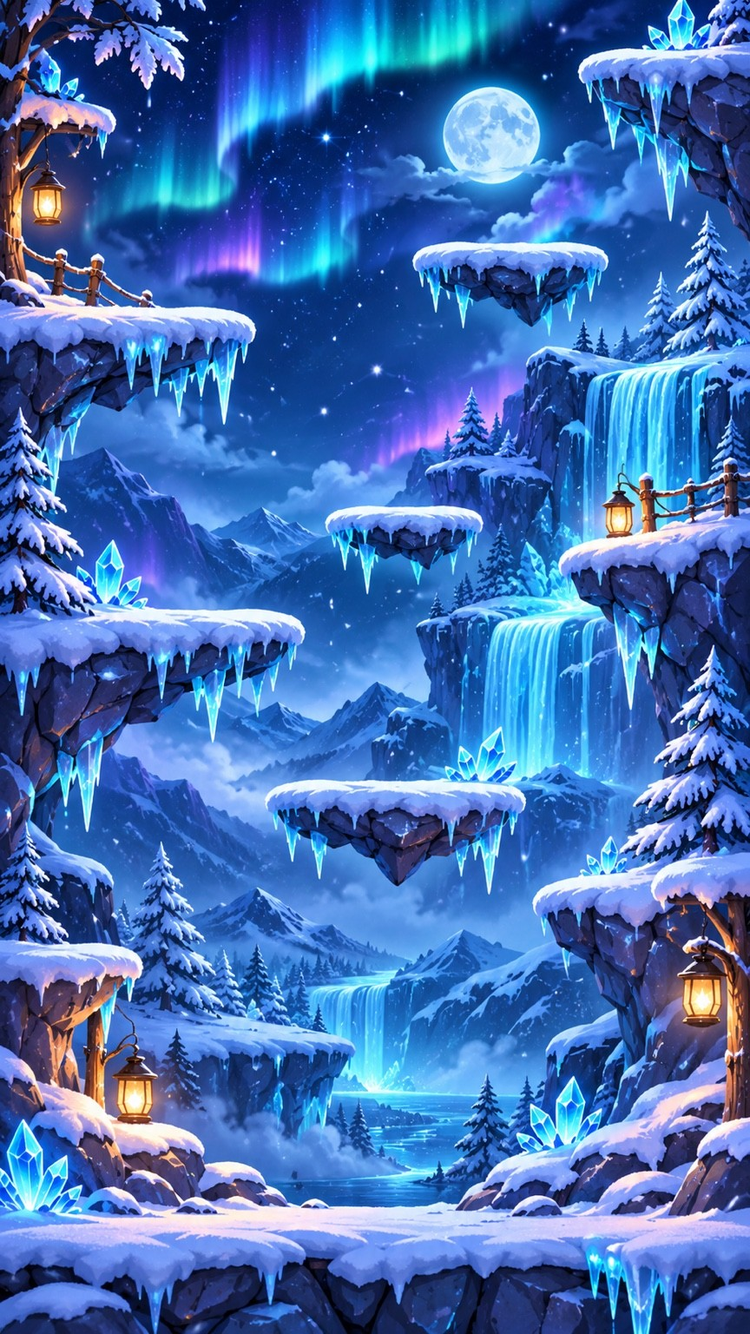
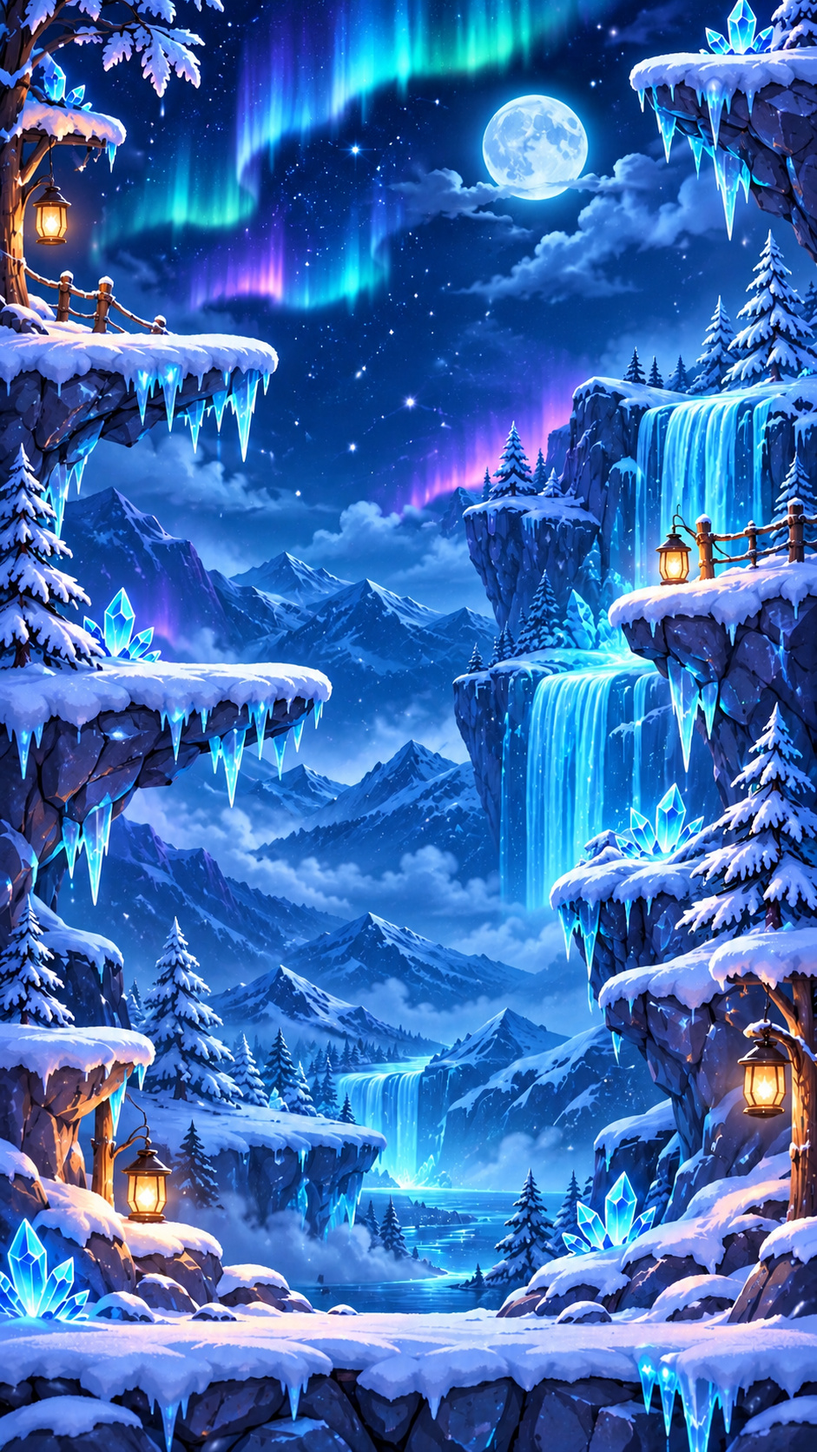
Fix v1.7 transparent platforms and clean winter scenery (#1)

diff --git a/FROSTY_v1_7_index.html b/FROSTY_v1_7_index.html
@@ -1,5 +1,5 @@
-<!doctype html><html lang="de"><head><meta charset="utf-8"><meta name="viewport" content="width=device-width,initial-scale=1,maximum-scale=1,user-scalable=no"><meta name="theme-color" content="#07182f"><title>FROSTY · Endless Ice Jump v1.7</title><style>*{box-sizing:border-box}html,body{margin:0;width:100%;height:100%;overflow:hidden;background:#061329;color:white;font-family:system-ui,-apple-system,sans-serif;touch-action:none}canvas{display:block;width:100vw;height:100dvh}#ui{position:fixed;inset:0;pointer-events:none}.panel{pointer-events:auto;position:absolute;inset:0;background:linear-gradient(180deg,#041126c9,#06172de8 75%),url('assets/winter_depth.jpg?v=17') center center/cover;display:flex;flex-direction:column;align-items:center;justify-content:center;gap:15px;padding:20px;text-align:center}.hidden{display:none!important}h1{font-size:clamp(38px,10vw,66px);margin:0;color:#dcfaff;text-shadow:0 0 22px #42d7ff}h2{margin:0}p{margin:0;color:#c9e6f6}.choice{display:flex;gap:12px;width:min(94vw,420px)}.hero{flex:1;border:2px solid #376787;border-radius:18px;padding:12px 4px;background:#0a2445;color:white;font-weight:700;font-size:17px;cursor:pointer}.hero img{height:160px;max-width:95%;object-fit:contain;display:block;margin:auto;filter:drop-shadow(0 0 4px #39dcff88)}.hero.active{border-color:#6cecff;box-shadow:0 0 18px #19c7fa77}button{font:inherit;cursor:pointer} .btn{border:1px solid #7bdfff;background:linear-gradient(#1878a7,#0b345e);color:white;padding:12px 25px;border-radius:16px;min-width:185px;font-weight:800;box-shadow:0 0 15px #18b8e477}.setting{display:flex;align-items:center;justify-content:space-between;width:min(90vw,390px);padding:12px;border-bottom:1px solid #47738b}select{background:#113a61;color:white;border:1px solid #7bdfff;border-radius:9px;padding:9px}#hud{gap:8px}#hud span{white-space:nowrap}#muteHud{pointer-events:auto;min-width:42px;border:1px solid #8eeaff;background:#103657cc;border-radius:12px;color:white;font-size:20px;padding:9px}#hud{position:absolute;top:env(safe-area-inset-top,12px);left:12px;right:12px;display:flex;justify-content:space-between;align-items:center;pointer-events:none;font-weight:800;text-shadow:0 2px 8px #000;font-size:17px}#pause{pointer-events:auto;border:1px solid #8eeaff;background:#103657cc;border-radius:12px;color:white;font-size:22px;padding:9px 14px}#controls{position:absolute;bottom:max(30px,env(safe-area-inset-bottom));left:0;right:0;display:flex;justify-content:space-between;padding:0 18px;pointer-events:none}.control{pointer-events:auto;border:2px solid #84e8ff;background:#10436b99;color:white;width:75px;height:75px;border-radius:50%;font-size:35px;font-weight:900;user-select:none;touch-action:none}.control:active{background:#1d8fb0}#rightgroup{display:flex;gap:10px}#jump{font-size:23px}small{color:#a7d6ec}</style></head><body><canvas id="game"></canvas><div id="ui"><div id="hud" class="hidden"><span id="height">❄ 0 m</span><span id="coins">🪙 0</span><button id="muteHud" aria-label="Ton stummschalten">🔊</button><button id="pause">Ⅱ</button></div><div id="controls" class="hidden"><div style="display:flex;gap:12px"><button class="control" id="left">❮</button><button class="control" id="right">❯</button></div><div id="rightgroup"><button class="control" id="jump">⇧</button></div></div><div id="menu" class="panel"><h1>FROSTY</h1><p>ENDLESS ICE JUMP · v1.7 · CHARAKTER-EDITION</p><h2>Wähle deinen Charakter</h2><div class="choice"><button class="hero active" data-char="frosty"><img src="assets/frosty_front.png?v=17">❄ FROSTY</button><button class="hero" data-char="lunar"><img src="assets/lunar_front.png?v=17">✦ LUNAR</button></div><button class="btn" id="play">▶ SPIELEN</button><button class="btn" id="settingsBtn">⚙ EINSTELLUNGEN</button><button class="btn" id="muteMenu">🔊 TON AN</button><small>Nordlichter · Eisklippen · magische Winterwelt</small><small>👆 Standard: Finger auf dem Spielfeld nach links/rechts ziehen</small><small>❄ Frosty & Lunar · Sprunganimationen links/rechts</small></div><div id="settings" class="panel hidden"><h2>⚙ Einstellungen</h2><div class="setting">Steuerung <select id="steer"><option value="swipe">Wischen / Sliden</option><option value="touch">Pfeiltasten</option><option value="tilt">Neigen</option></select></div><div class="setting">Ton <button class="btn" id="muteSettings" style="min-width:125px;padding:9px">🔊 AN</button></div><div class="setting">🎵 Musik <input aria-label="Musiklautstärke" type="range" id="musicVol" min="0" max="100" value="25" style="width:145px;accent-color:#8deeff"></div><div class="setting">❄ Effekte <input aria-label="Effektlautstärke" type="range" id="sfxVol" min="0" max="100" value="35" style="width:145px;accent-color:#8deeff"></div><div class="setting">Springen <select id="mode"><option value="auto">Automatisch</option><option value="manual">Manuell</option></select></div><button class="btn" id="calibrate">Neigung kalibrieren</button><button class="btn" id="back">Zurück</button><small>Wischen: Finger auf dem Spielfeld nach links/rechts ziehen. Die Pfeile werden dabei ausgeblendet.</small></div><div id="paused" class="panel hidden"><h2>❄ Pause</h2><button class="btn" id="resume">Weiter</button><button class="btn" id="mutePaused">🔊 TON AN</button><button class="btn" id="restart">Neustart</button><button class="btn" id="toMenu">Hauptmenü</button></div><div id="over" class="panel hidden"><h1>GAME OVER</h1><p id="result"></p><button class="btn" id="again">Nochmal spielen</button><button class="btn" id="home">Charakter wählen</button></div></div><script>
-(()=>{'use strict';const $=id=>document.getElementById(id),cv=$('game'),ctx=cv.getContext('2d');let W=390,H=800,dpr=1,scene='menu',chosen='frosty',score=0,collected=0,best=0,camera=0,highest=0,platforms=[],tokens=[],particles=[],snow=[],last=0,lastPlatformX=195,tilt=0,tiltZero=0,keys={left:false,right:false},jumpPressed=false;const images={};for(const n of ['frosty_front','frosty_back','frosty_side','frosty_jump','lunar_front','lunar_back','lunar_side','lunar_run','lunar_jump','lunar_double','lunar_land']){const im=new Image;im.src='assets/'+n+'.png?v=17';images[n]=im}try{best=Number(localStorage.getItem('frostyBest')||0)}catch(e){}let muted=false,audioCtx=null,master=null,lastLandingSound=0;let musicVol=.25,sfxVol=.35,musicNext=0,musicIndex=0;
+<!doctype html><html lang="de"><head><meta charset="utf-8"><meta name="viewport" content="width=device-width,initial-scale=1,maximum-scale=1,user-scalable=no"><meta name="theme-color" content="#07182f"><title>FROSTY · Endless Ice Jump v1.7</title><style>*{box-sizing:border-box}html,body{margin:0;width:100%;height:100%;overflow:hidden;background:#061329;color:white;font-family:system-ui,-apple-system,sans-serif;touch-action:none}canvas{display:block;width:100vw;height:100dvh}#ui{position:fixed;inset:0;pointer-events:none}.panel{pointer-events:auto;position:absolute;inset:0;background:linear-gradient(180deg,#041126c9,#06172de8 75%),url('assets/winter_depth.jpg?v=1.7') center center/cover;display:flex;flex-direction:column;align-items:center;justify-content:safe center;gap:clamp(8px,1.5dvh,15px);padding:20px;text-align:center;overflow-y:auto;touch-action:pan-y}.hidden{display:none!important}h1{font-size:clamp(38px,10vw,66px);margin:0;color:#dcfaff;text-shadow:0 0 22px #42d7ff}h2{margin:0}p{margin:0;color:#c9e6f6}.choice{display:flex;gap:12px;width:min(100%,420px)}.hero{flex:1;border:2px solid #376787;border-radius:18px;padding:12px 4px;background:#0a2445;color:white;font-weight:700;font-size:17px;cursor:pointer}.panel>*{flex-shrink:0}.hero img{height:clamp(90px,18dvh,160px);max-width:95%;object-fit:contain;display:block;margin:auto;filter:drop-shadow(0 0 4px #39dcff88)}.hero.active{border-color:#6cecff;box-shadow:0 0 18px #19c7fa77}button{font:inherit;cursor:pointer} .btn{border:1px solid #7bdfff;background:linear-gradient(#1878a7,#0b345e);color:white;padding:12px 25px;border-radius:16px;min-width:185px;font-weight:800;box-shadow:0 0 15px #18b8e477}.setting{display:flex;align-items:center;justify-content:space-between;width:min(90vw,390px);padding:12px;border-bottom:1px solid #47738b}select{background:#113a61;color:white;border:1px solid #7bdfff;border-radius:9px;padding:9px}#hud{gap:8px}#hud span{white-space:nowrap}#muteHud{pointer-events:auto;min-width:42px;border:1px solid #8eeaff;background:#103657cc;border-radius:12px;color:white;font-size:20px;padding:9px}#hud{position:absolute;top:max(12px,env(safe-area-inset-top));left:12px;right:12px;display:flex;justify-content:space-between;align-items:center;pointer-events:none;font-weight:800;text-shadow:0 2px 8px #000;font-size:17px}#pause{pointer-events:auto;border:1px solid #8eeaff;background:#103657cc;border-radius:12px;color:white;font-size:22px;padding:9px 14px}#controls{position:absolute;bottom:max(30px,env(safe-area-inset-bottom));left:0;right:0;display:flex;justify-content:space-between;padding:0 18px;pointer-events:none}.control{pointer-events:auto;border:2px solid #84e8ff;background:#10436b99;color:white;width:75px;height:75px;border-radius:50%;font-size:35px;font-weight:900;user-select:none;touch-action:none}.control:active{background:#1d8fb0}#rightgroup{display:flex;gap:10px}#jump{font-size:23px}small{color:#a7d6ec}</style></head><body><canvas id="game"></canvas><div id="ui"><div id="hud" class="hidden"><span id="height">❄ 0 m</span><span id="coins">🪙 0</span><button id="muteHud" aria-label="Ton stummschalten">🔊</button><button id="pause">Ⅱ</button></div><div id="controls" class="hidden"><div style="display:flex;gap:12px"><button class="control" id="left">❮</button><button class="control" id="right">❯</button></div><div id="rightgroup"><button class="control" id="jump">⇧</button></div></div><div id="menu" class="panel"><h1>FROSTY</h1><p>ENDLESS ICE JUMP · v1.7 · CHARAKTER-EDITION</p><h2>Wähle deinen Charakter</h2><div class="choice"><button class="hero active" data-char="frosty"><img src="assets/frosty_front.png?v=1.7">❄ FROSTY</button><button class="hero" data-char="lunar"><img src="assets/lunar_front.png?v=1.7">✦ LUNAR</button></div><button class="btn" id="play">▶ SPIELEN</button><button class="btn" id="settingsBtn">⚙ EINSTELLUNGEN</button><button class="btn" id="muteMenu">🔊 TON AN</button><small>Nordlichter · Eisklippen · magische Winterwelt</small><small>👆 Standard: Finger auf dem Spielfeld nach links/rechts ziehen</small><small>❄ Frosty & Lunar · Sprunganimationen links/rechts</small></div><div id="settings" class="panel hidden"><h2>⚙ Einstellungen</h2><div class="setting">Steuerung <select id="steer"><option value="swipe">Wischen / Sliden</option><option value="touch">Pfeiltasten</option><option value="tilt">Neigen</option></select></div><div class="setting">Ton <button class="btn" id="muteSettings" style="min-width:125px;padding:9px">🔊 AN</button></div><div class="setting">🎵 Musik <input aria-label="Musiklautstärke" type="range" id="musicVol" min="0" max="100" value="25" style="width:145px;accent-color:#8deeff"></div><div class="setting">❄ Effekte <input aria-label="Effektlautstärke" type="range" id="sfxVol" min="0" max="100" value="35" style="width:145px;accent-color:#8deeff"></div><div class="setting">Springen <select id="mode"><option value="auto">Automatisch</option><option value="manual">Manuell</option></select></div><button class="btn" id="calibrate">Neigung kalibrieren</button><button class="btn" id="back">Zurück</button><small>Wischen: Finger auf dem Spielfeld nach links/rechts ziehen. Die Pfeile werden dabei ausgeblendet.</small></div><div id="paused" class="panel hidden"><h2>❄ Pause</h2><button class="btn" id="resume">Weiter</button><button class="btn" id="mutePaused">🔊 TON AN</button><button class="btn" id="restart">Neustart</button><button class="btn" id="toMenu">Hauptmenü</button></div><div id="over" class="panel hidden"><h1>GAME OVER</h1><p id="result"></p><button class="btn" id="again">Nochmal spielen</button><button class="btn" id="home">Charakter wählen</button></div></div><script>
+(()=>{'use strict';const $=id=>document.getElementById(id),cv=$('game'),ctx=cv.getContext('2d');let W=390,H=800,dpr=1,scene='menu',chosen='frosty',score=0,collected=0,best=0,camera=0,highest=0,platforms=[],tokens=[],particles=[],snow=[],last=0,lastPlatformX=195,tilt=0,tiltZero=0,keys={left:false,right:false},jumpPressed=false;const images={};for(const n of ['frosty_front','frosty_back','frosty_side','frosty_jump','lunar_front','lunar_back','lunar_side','lunar_run','lunar_jump','lunar_double','lunar_land']){const im=new Image;im.src='assets/'+n+'.png?v=1.7';images[n]=im}try{best=Number(localStorage.getItem('frostyBest')||0)}catch(e){}let muted=false,audioCtx=null,master=null,lastLandingSound=0;let musicVol=.25,sfxVol=.35,musicNext=0,musicIndex=0;
 try{muted=localStorage.getItem('frostyMuted')==='1'}catch(e){}
 function unlockAudio(){if(muted)return;try{if(!audioCtx){audioCtx=new (window.AudioContext||window.webkitAudioContext)();master=audioCtx.createGain();master.gain.value=.7;master.connect(audioCtx.destination)}if(audioCtx.state==='suspended')audioCtx.resume().catch(()=>{})}catch(e){}}
 function tone(freq=440,dur=.12,shape='sine',vol=.25,slide=1,delay=0,channel='sfx'){if(muted)return;unlockAudio();if(!audioCtx)return;const t=audioCtx.currentTime+delay,o=audioCtx.createOscillator(),g=audioCtx.createGain();o.type=shape;o.frequency.setValueAtTime(Math.max(40,freq),t);o.frequency.exponentialRampToValueAtTime(Math.max(40,freq*slide),t+dur);let gain=vol*(channel==='music'?musicVol:sfxVol);if(gain<.0001)return;g.gain.setValueAtTime(.0001,t);g.gain.exponentialRampToValueAtTime(Math.max(.0001,gain),t+.07);g.gain.exponentialRampToValueAtTime(.0001,t+dur);o.connect(g);g.connect(master);o.start(t);o.stop(t+dur+.03)}
@@ -23,15 +23,15 @@ for(const ev of ['pointerup','pointercancel','lostpointercapture'])document.addE
 addEventListener('blur',resetInput);document.addEventListener('visibilitychange',()=>{resetInput();if(document.hidden&&scene==='game')show('paused')});for(const [id,key] of [['left','left'],['right','right']]){const b=$(id);b.addEventListener('pointerdown',e=>{e.preventDefault();b.setPointerCapture(e.pointerId);keys[key]=true});for(const ev of ['pointerup','pointercancel','pointerleave','lostpointercapture'])b.addEventListener(ev,()=>keys[key]=false)}$('jump').addEventListener('pointerdown',e=>{e.preventDefault();jumpPressed=true});for(const ev of ['pointerup','pointercancel','pointerleave','lostpointercapture'])$('jump').addEventListener(ev,()=>jumpPressed=false);addEventListener('keydown',e=>{if(e.key==='ArrowLeft'||e.key==='a')keys.left=true;if(e.key==='ArrowRight'||e.key==='d')keys.right=true;if(e.key===' '||e.key==='ArrowUp')jumpPressed=true});addEventListener('keyup',e=>{if(e.key==='ArrowLeft'||e.key==='a')keys.left=false;if(e.key==='ArrowRight'||e.key==='d')keys.right=false;if(e.key===' '||e.key==='ArrowUp')jumpPressed=false});function start(){resetInput();camera=0;highest=0;score=0;collected=0;platforms=[];tokens=[];particles=[];p={x:W/2,y:H-190,vx:0,vy:-11,w:Math.min(55,W*.14),h:Math.min(72,W*.19),onGround:false,glow:0,face:'back',anim:0};platforms.push({x:W/2-80,y:H-110,w:160,boost:false,kind:0});lastPlatformX=W/2;let y=H-240;while(y>-400){addPlatform(y);y-=87+Math.random()*37}show('game')}function addPlatform(y){const r=Math.random(),w=r<.23?68+Math.random()*22:r<.75?100+Math.random()*38:150+Math.random()*38;const min=12,max=Math.max(min,W-w-12);let x=Math.max(min,Math.min(max,lastPlatformX-w/2+(Math.random()-.5)*Math.min(W*.68,205)));lastPlatformX=x+w/2;const boost=Math.random()<.17;platforms.push({x,y,w,boost,kind:Math.floor(Math.random()*3),phase:Math.random()*7});if(Math.random()<.78)tokens.push({x:x+w/2,y:y-54,got:false,phase:Math.random()*6.28})}
 function burst(x,y,n=12,type='ice'){for(let i=0;i<n;i++){const a=Math.random()*Math.PI*2,sp=1+Math.random()*6;particles.push({x,y,vx:Math.cos(a)*sp,vy:Math.sin(a)*sp-2,life:20+Math.random()*24,max:44,size:2+Math.random()*5,rot:Math.random()*6,type})}}
 function trail(x,y,n=3){for(let i=0;i<n;i++)particles.push({x:x+(Math.random()-.5)*24,y:y+Math.random()*12,vx:(Math.random()-.5)*2,vy:1+Math.random()*3,life:12+Math.random()*15,max:27,size:2+Math.random()*5,rot:Math.random()*6,type:Math.random()<.65?'ice':'spark'})}
-function update(dt){musicTick();if(scene!=='game')return;dt=Math.min(dt,2);let dir=(keys.right?1:0)-(keys.left?1:0);if($('steer').value==='swipe')dir=swipeDir;if($('steer').value==='tilt'){const g=tilt-tiltZero;dir=Math.abs(g)<5?0:Math.max(-1,Math.min(1,g/22))}p.anim+=dt;p.vx+=(dir*0.72-p.vx*.085)*dt;p.vx=Math.max(-6,Math.min(6,p.vx));p.x+=p.vx*dt;if(p.x<-p.w/2)p.x=W+p.w/2;if(p.x>W+p.w/2)p.x=-p.w/2;let prevBottom=p.y+p.h/2;p.vy+=.39*dt;p.y+=p.vy*dt;if(p.vy>=0){for(const pl of platforms){if(prevBottom<=pl.y+8&&p.y+p.h/2>=pl.y&&p.x+p.w*.3>pl.x&&p.x-p.w*.3<pl.x+pl.w){p.y=pl.y-p.h/2;p.vy=0;p.onGround=true;p.face='front';burst(p.x,pl.y,14,'snow');if(performance.now()-lastLandingSound>140){sound('land');lastLandingSound=performance.now()}if($('mode').value==='auto'||jumpPressed){p.vy=pl.boost?-17.5:-12.7;p.onGround=false;p.face='back';p.glow=pl.boost?65:48;burst(p.x,pl.y,pl.boost?62:38,pl.boost?'spark':'ice');sound(pl.boost?'boost':'jump')}break}}}if(p.onGround&&jumpPressed){p.vy=-12.7;p.onGround=false;p.face='back';p.glow=48;burst(p.x,p.y+p.h/2,40,'ice');sound('jump')}if(p.vy<-.5)p.face='back';else if(p.vy>1)p.face='front';p.glow=Math.max(0,p.glow-dt*.65);if(p.glow>8&&Math.random()<.85)trail(p.x,p.y+p.h*.45,p.glow>35?5:2);for(const t of tokens){if(!t.got&&Math.hypot(p.x-t.x,p.y-t.y)<p.w*.7+12){t.got=true;collected++;burst(t.x,t.y,20,'gold');sound('coin')}}for(const q of particles){q.x+=q.vx*dt;q.y+=q.vy*dt;q.vy+=.13*dt;q.rot+=.08*dt;q.life-=dt}particles=particles.filter(q=>q.life>0);const desired=Math.min(camera,p.y-H*.47);camera+=(desired-camera)*Math.min(1,.1*dt);highest=Math.max(highest,Math.max(0,(H-190-p.y)/10));score=Math.floor(highest);$('height').textContent='❄ '+score+' m';$('coins').textContent='🪙 '+collected;let top=Math.min(...platforms.map(x=>x.y));while(top>camera-230){top-=87+Math.random()*37;addPlatform(top)}platforms=platforms.filter(x=>x.y<camera+H+130);tokens=tokens.filter(x=>x.y<camera+H+130&&!x.got);if(p.y-camera>H+130){if(score>best){best=score;try{localStorage.setItem('frostyBest',best)}catch(e){}}$('result').textContent=`${score} m · ${collected} Münzen · Rekord ${best} m`;sound('gameover');show('over')}}function rounded(x,y,w,h,r){ctx.beginPath();ctx.roundRect(x,y,w,h,r)}const winterArt=new Image();winterArt.src='assets/winter_depth.jpg?v=17';
+function update(dt){musicTick();if(scene!=='game')return;dt=Math.min(dt,2);let dir=(keys.right?1:0)-(keys.left?1:0);if($('steer').value==='swipe')dir=swipeDir;if($('steer').value==='tilt'){const g=tilt-tiltZero;dir=Math.abs(g)<5?0:Math.max(-1,Math.min(1,g/22))}p.anim+=dt;p.vx+=(dir*0.72-p.vx*.085)*dt;p.vx=Math.max(-6,Math.min(6,p.vx));p.x+=p.vx*dt;if(p.x<-p.w/2)p.x=W+p.w/2;if(p.x>W+p.w/2)p.x=-p.w/2;let prevBottom=p.y+p.h/2;p.vy+=.39*dt;p.y+=p.vy*dt;if(p.vy>=0){for(const pl of platforms){if(prevBottom<=pl.y+8&&p.y+p.h/2>=pl.y&&p.x+p.w*.3>pl.x&&p.x-p.w*.3<pl.x+pl.w){p.y=pl.y-p.h/2;p.vy=0;p.onGround=true;p.face='front';burst(p.x,pl.y,14,'snow');if(performance.now()-lastLandingSound>140){sound('land');lastLandingSound=performance.now()}if($('mode').value==='auto'||jumpPressed){p.vy=pl.boost?-17.5:-12.7;p.onGround=false;p.face='back';p.glow=pl.boost?65:48;burst(p.x,pl.y,pl.boost?62:38,pl.boost?'spark':'ice');sound(pl.boost?'boost':'jump')}break}}}if(p.onGround&&jumpPressed){p.vy=-12.7;p.onGround=false;p.face='back';p.glow=48;burst(p.x,p.y+p.h/2,40,'ice');sound('jump')}if(p.vy<-.5)p.face='back';else if(p.vy>1)p.face='front';p.glow=Math.max(0,p.glow-dt*.65);if(p.glow>8&&Math.random()<.85)trail(p.x,p.y+p.h*.45,p.glow>35?5:2);for(const t of tokens){if(!t.got&&Math.hypot(p.x-t.x,p.y-t.y)<p.w*.7+12){t.got=true;collected++;burst(t.x,t.y,20,'gold');sound('coin')}}for(const q of particles){q.x+=q.vx*dt;q.y+=q.vy*dt;q.vy+=.13*dt;q.rot+=.08*dt;q.life-=dt}particles=particles.filter(q=>q.life>0);const desired=Math.min(camera,p.y-H*.47);camera+=(desired-camera)*Math.min(1,.1*dt);highest=Math.max(highest,Math.max(0,(H-190-p.y)/10));score=Math.floor(highest);$('height').textContent='❄ '+score+' m';$('coins').textContent='🪙 '+collected;let top=Math.min(...platforms.map(x=>x.y));while(top>camera-230){top-=87+Math.random()*37;addPlatform(top)}platforms=platforms.filter(x=>x.y<camera+H+130);tokens=tokens.filter(x=>x.y<camera+H+130&&!x.got);if(p.y-camera>H+130){if(score>best){best=score;try{localStorage.setItem('frostyBest',best)}catch(e){}}$('result').textContent=`${score} m · ${collected} Münzen · Rekord ${best} m`;sound('gameover');show('over')}}function rounded(x,y,w,h,r){ctx.beginPath();ctx.roundRect(x,y,w,h,r)}const winterArt=new Image();winterArt.src='assets/winter_depth.jpg?v=1.7';
 function winterScenery(t){
  if(!winterArt.complete||!winterArt.naturalWidth)return false;
  const ratio=winterArt.naturalWidth/winterArt.naturalHeight;
  const drawH=Math.max(H,W/ratio),drawW=drawH*ratio;
  const left=(W-drawW)/2;
  // Very slow movement keeps the illustration's aurora, waterfalls and cliffs in view.
- const drift=Math.sin(t*.000065)*Math.max(0,(drawH-H)*.10) + (camera*.045)%Math.max(1,(drawH-H)*.20);
- const base=-(drawH-H)*.42+drift;
+ // Bounded continuous drift: no modulo reset, tiling seam or exposed image edge.
+ const base=-(drawH-H)*(.42+.06*Math.sin(t*.000065)+.08*Math.tanh(camera/2000));
  ctx.drawImage(winterArt,left,base,drawW,drawH);
  const shade=ctx.createLinearGradient(0,0,0,H);
  shade.addColorStop(0,'#0310281c');shade.addColorStop(.55,'#03102808');shade.addColorStop(1,'#0310283b');
@@ -47,24 +47,21 @@ function mountain(base,amp,color,shift){ctx.fillStyle=color;ctx.beginPath();ctx.
 mountain(H*.88,105,'#142e51',camera*.014);mountain(H*.99,90,'#1b4168',camera*.03);
 ctx.save();ctx.globalAlpha=.5;for(let i=0;i<15;i++){let x=(i*93+27)%W,base=H*.95+(i%4)*18;ctx.strokeStyle='#0b2c45';ctx.lineWidth=3;ctx.beginPath();ctx.moveTo(x,base);ctx.lineTo(x,base-32-(i%5)*13);ctx.stroke();for(let k=0;k<3;k++){let y=base-12-k*13-(i%5)*3;ctx.fillStyle=k===0?'#d2ecff':'#143c55';ctx.beginPath();ctx.moveTo(x,y-23);ctx.lineTo(x-12-k*3,y+4);ctx.lineTo(x+12+k*3,y+4);ctx.fill()}}ctx.restore();
 for(const sn of snow){sn.y+=sn.s*.55;if(sn.y>H)sn.y=0;ctx.fillStyle='#d9f5ffb8';ctx.beginPath();ctx.arc(sn.x,sn.y,sn.r,0,7);ctx.fill()}}
-const rockSprites=['rock_a','rock_b','rock_c'].map(name=>{const img=new Image();img.src='assets/'+name+'.png?v=17';return img});
+const rockSprites=['rock_a','rock_b','rock_c'].map(name=>{const img=new Image();img.src='assets/'+name+'.png?v=1.7';return img});
 function drawPlatform(pl){
  const y=pl.y-camera,w=pl.w,x=pl.x;
  if(y<-125||y>H+120)return;
  const sprite=rockSprites[(pl.kind||0)%rockSprites.length];
  ctx.save();
  // Sprite upper snow surface is aligned with the physics collision surface (pl.y).
- const h=w*.50,top=y-31;
+ const h=sprite.naturalWidth?w*sprite.naturalHeight/sprite.naturalWidth:w*.42;
+ const top=y-h*.10;
  ctx.shadowColor='#00112c';ctx.shadowBlur=5;ctx.shadowOffsetY=3;
  if(sprite.complete&&sprite.naturalWidth){ctx.drawImage(sprite,x,top,w,h)}else{
  ctx.fillStyle='#254877';ctx.beginPath();ctx.moveTo(x,y);ctx.lineTo(x+w,y);ctx.lineTo(x+w*.52,y+h-24);ctx.closePath();ctx.fill();
  ctx.fillStyle='#f0fcff';ctx.fillRect(x,y-8,w,13);
  }
  ctx.shadowBlur=0;ctx.shadowOffsetY=0;
- // A little icy light on the top surface helps show where to land.
- const light=ctx.createLinearGradient(0,y-12,0,y+12);
- light.addColorStop(0,'#ffffff22');light.addColorStop(1,'#a4edff00');
- ctx.fillStyle=light;ctx.fillRect(x+8,y-12,w-16,24);
  if(pl.boost){ctx.shadowBlur=13;ctx.shadowColor='#6effff';ctx.font='bold 22px system-ui';ctx.textAlign='center';ctx.fillStyle='#bfffff';ctx.fillText('✦',x+w/2,y-30)}
  ctx.restore();
 }

diff --git a/index.html b/index.html
@@ -1,0 +1,10 @@
+<!doctype html>
+<html lang="de">
+<head>
+  <meta charset="utf-8">
+  <meta name="viewport" content="width=device-width,initial-scale=1">
+  <meta http-equiv="refresh" content="0;url=FROSTY_v1_7_index.html">
+  <title>FROSTY · Endless Ice Jump v1.7</title>
+</head>
+<body><a href="FROSTY_v1_7_index.html">FROSTY v1.7 spielen</a></body>
+</html>

diff --git a/tests/smoke.py b/tests/smoke.py
@@ -1,0 +1,106 @@
+"""Functional v1.7 checks; run with Python Playwright and Chromium/WebKit."""
+import functools
+import http.server
+import json
+import os
+from pathlib import Path
+import shutil
+import threading
+from playwright.sync_api import sync_playwright
+
+ROOT = Path(__file__).resolve().parents[1]
+ARTIFACTS = Path(os.environ.get('FROSTY_TEST_ARTIFACTS', '/tmp/frosty-v1.7-tests'))
+ARTIFACTS.mkdir(parents=True, exist_ok=True)
+
+class QuietHandler(http.server.SimpleHTTPRequestHandler):
+    def log_message(self, *args):
+        pass
+
+server = http.server.ThreadingHTTPServer(('127.0.0.1', 0), functools.partial(QuietHandler, directory=str(ROOT)))
+threading.Thread(target=server.serve_forever, daemon=True).start()
+url = f'http://127.0.0.1:{server.server_port}'
+# Instrument only the response served to this test; production exposes no test hooks.
+source = (ROOT / 'FROSTY_v1_7_index.html').read_text()
+hook = '''window.__test={step:update, get:()=>({p:{...p},score,collected,camera,scene}),
+ set:(data)=>{if(data.p)p={...p,...data.p};if(data.platforms)platforms=data.platforms;
+ if(data.tokens)tokens=data.tokens;if(data.camera!==undefined)camera=data.camera;},
+ render, start};'''
+source = source.replace('requestAnimationFrame(frame);})();', hook + 'requestAnimationFrame(frame);})();')
+
+try:
+    with sync_playwright() as pw:
+        for name in ['desktop', 'iphone']:
+            engine = pw.chromium if name == 'desktop' or os.environ.get('FROSTY_MOBILE_ENGINE') == 'chromium' else pw.webkit
+            options = {'headless': True}
+            if engine.name == 'chromium' and shutil.which('chromium'):
+                options['executable_path'] = shutil.which('chromium')
+            browser = engine.launch(**options)
+            config = {'viewport': {'width': 1440, 'height': 900}} if name == 'desktop' else pw.devices['iPhone 13']
+            context = browser.new_context(**config)
+            page = context.new_page()
+            errors, failed = [], []
+            page.on('pageerror', lambda e: errors.append(str(e)))
+            page.on('response', lambda r: failed.append(r.url) if r.status >= 400 else None)
+            page.route('**/FROSTY_v1_7_index.html', lambda route: route.fulfill(status=200, content_type='text/html', body=source))
+            page.goto(url, wait_until='networkidle')
+            page.wait_for_url('**/FROSTY_v1_7_index.html')
+            assert 'v1.7' in page.title()
+            assert page.locator('#menu').is_visible()
+            assert page.locator('h1').first.bounding_box()['y'] >= 0
+            page.click('#play');assert page.locator('#hud').is_visible()
+            page.click('#pause');page.click('#toMenu')
+            assert page.locator('img').evaluate_all('(xs)=>xs.every(i=>i.complete&&i.naturalWidth>0)')
+            # Verify alpha transparency and sprite borders in the actual browser decoder.
+            alpha = page.evaluate('''async()=>{const out=[];for(const n of ['a','b','c']){
+              const i=new Image();i.src='assets/rock_'+n+'.png?v=1.7';await i.decode();
+              const c=document.createElement('canvas');c.width=i.width;c.height=i.height;
+              const x=c.getContext('2d');x.drawImage(i,0,0);const d=x.getImageData(0,0,c.width,c.height).data;
+              let clear=0;for(let k=3;k<d.length;k+=4)if(d[k]===0)clear++;
+              out.push(clear/(c.width*c.height));}return out}''')
+            assert all(v > .30 for v in alpha), alpha
+            page.screenshot(path=str(ARTIFACTS / f'{name}-menu.png'))
+            page.click('#settingsBtn')
+            page.select_option('#steer', 'touch' if name == 'desktop' else 'swipe')
+            page.select_option('#mode', 'manual')
+            page.locator('#musicVol').fill('40');page.locator('#musicVol').dispatch_event('input')
+            page.click('#back');page.click('[data-char=lunar]');page.click('#play')
+            assert page.locator('#hud').is_visible()
+            # Deterministic physics checks within a single task, before RAF can intervene.
+            result = page.evaluate('''()=>{const t=window.__test;const pl={x:50,y:400,w:250,boost:false,kind:0};
+              t.set({camera:0,platforms:[pl],tokens:[],p:{x:150,y:363,vy:2,vx:0,h:72,onGround:false}});
+              t.step(1);if(!t.get().p.onGround)throw Error('Manual landing failed');
+              dispatchEvent(new KeyboardEvent('keydown',{key:' '}));t.step(1);
+              if(t.get().p.vy>=0)throw Error('Manual jump failed');dispatchEvent(new KeyboardEvent('keyup',{key:' '}));
+              document.querySelector('#mode').value='auto';pl.boost=true;
+              t.set({platforms:[pl],p:{x:150,y:363,vy:2,vx:0,onGround:false}});t.step(1);
+              if(t.get().p.vy!==-17.5)throw Error('Booster failed');
+              pl.boost=false;t.set({platforms:[pl],p:{x:150,y:363,vy:2,onGround:false}});t.step(1);
+              if(t.get().p.vy!==-12.7)throw Error('Auto jump failed');
+              const before=t.get().collected;t.set({tokens:[{x:150,y:300,got:false,phase:0}],p:{x:150,y:300,vy:0}});t.step(0);
+              if(t.get().collected!==before+1)throw Error('Coin failed');return t.get()}''')
+            if name == 'desktop':
+                before = page.evaluate('window.__test.get().p.x')
+                page.keyboard.down('ArrowRight');page.wait_for_timeout(120);page.keyboard.up('ArrowRight')
+                assert page.evaluate('window.__test.get().p.x') > before
+            else:
+                page.evaluate('''()=>{document.querySelector('#game').dispatchEvent(new PointerEvent('pointerdown',{bubbles:true,pointerId:1,clientX:100}));
+                document.dispatchEvent(new PointerEvent('pointermove',{bubbles:true,pointerId:1,clientX:180}));}''')
+                before = page.evaluate('window.__test.get().p.x');page.wait_for_timeout(120)
+                assert page.evaluate('window.__test.get().p.x') > before
+                page.evaluate("document.dispatchEvent(new PointerEvent('pointerup',{pointerId:1}))")
+            page.click('#pause');assert page.locator('#paused').is_visible()
+            before = page.evaluate('window.__test.get().p.y');page.wait_for_timeout(150)
+            assert page.evaluate('window.__test.get().p.y') == before
+            page.click('#resume');assert page.locator('#paused').is_hidden()
+            page.evaluate('window.__test.start();window.__test.render(performance.now())')
+            page.screenshot(path=str(ARTIFACTS / f'{name}-game.png'))
+            page.click('#muteHud');assert page.locator('#muteHud').get_attribute('aria-pressed') == 'true'
+            page.click('#pause');page.click('#toMenu');page.reload(wait_until='networkidle')
+            page.click('#settingsBtn');assert page.locator('#musicVol').input_value() == '40'
+            assert page.locator('#muteSettings').get_attribute('aria-pressed') == 'true'
+            assert not errors, errors
+            assert not failed, failed
+            print(json.dumps({'target': name, 'engine': engine.name, 'status': 'PASS', 'transparent_fraction': alpha, 'errors': errors, 'failed_requests': failed}))
+            context.close();browser.close()
+finally:
+    server.shutdown()

diff --git a/tests/VALIDATION.md b/tests/VALIDATION.md
@@ -1,0 +1,25 @@
+# v1.7 validation
+
+Executed `FROSTY_MOBILE_ENGINE=chromium python3 tests/smoke.py` successfully.
+
+- Desktop Chromium, 1440 × 900: PASS.
+- iPhone 13 profile, Chromium mobile emulation with touch: PASS.
+- Both characters start; menu, settings, pause/resume, keyboard/swipe movement,
+  manual landing/jump, automatic jump, booster impulse, coin collection,
+  mute and volume persistence: PASS.
+- No JavaScript page errors or failed HTTP asset responses.
+- PNG decoder verifies actual alpha transparency in all three platform sprites.
+- Screenshots visually reviewed on desktop and iPhone profile: no blue platform
+  rectangles; central baked-in floating rocks removed; detailed winter scenery retained.
+- `git diff --check`: PASS.
+
+Safari/WebKit was NOT executed: Playwright browser download was denied with
+HTTP 403 Domain forbidden for cdn.playwright.dev and
+playwright.download.prss.microsoft.com. Run the default test command after
+installing WebKit on a machine with permitted download access.
+Actual iPhone hardware, tilt sensors and physical sound output remain untested.
+The production physics, coin, booster and audio logic were kept unchanged.
+
+The test injects private observation/scenario hooks into its own intercepted
+HTTP response only; the shipped game has no debug API. Screenshots default to
+/tmp/frosty-v1.7-tests, configurable with FROSTY_TEST_ARTIFACTS.
